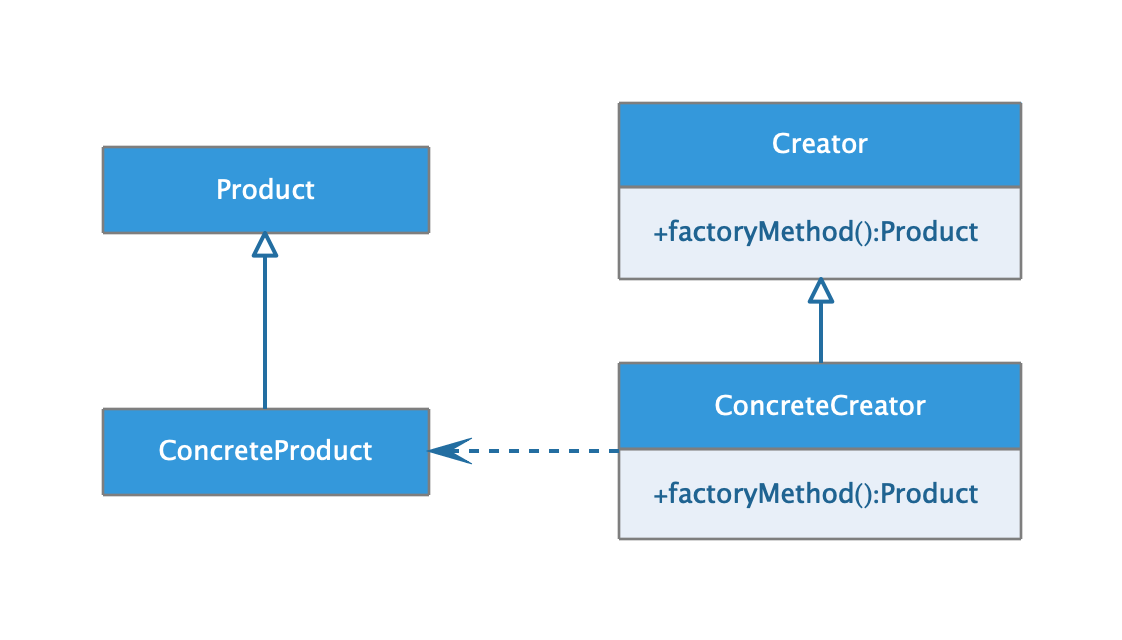
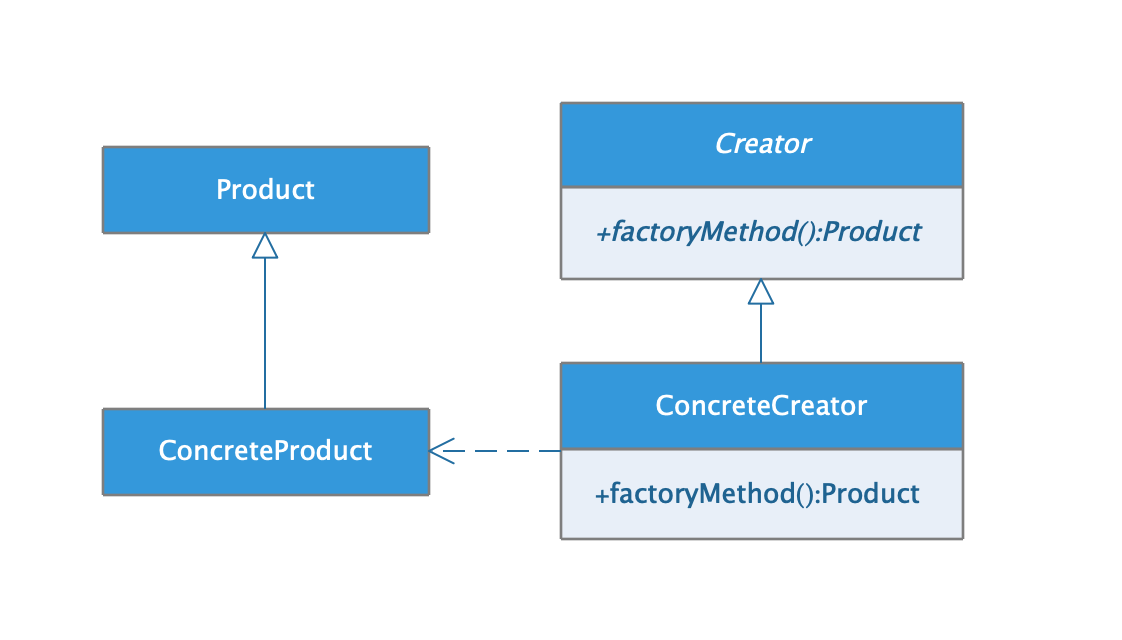
fix pic

diff --git a/develop/design_pattern.md b/develop/design_pattern.md
@@ -24,13 +24,13 @@
   1. [定义](#5.1)
   2. [类图](#5.2)
 
-* ##### [工厂方法模式](#6)
-  1. [定义](#6.1)
+* ##### [工厂方法模式(Factory Method)](#6)
+  1. [意图](#6.1)
   2. [类图](#6.2)
   3. [应用:ThreadFactory](#6.3)
 
-* ##### [抽象工厂模式](#7)
-  1. [定义](#7.1)
+* ##### [抽象工厂模式(Abstract Factory)](#7)
+  1. [意图](#7.1)
   2. [类图](#7.2)
 
 * ##### [命令模式](#8)
@@ -38,12 +38,12 @@
   2. [类图](#8.2)
   3. [应用:ThreadPoolExecutor](#8.3)
 
-* ##### [适配器模式](#9)
-  1. [定义](#9.1)
+* ##### [适配器模式(Adapter)](#9)
+  1. [意图](#9.1)
   2. [类图](#9.2)
 
-* ##### [外观模式](#10)
-  1. [定义](#10.1)
+* ##### [外观模式(Facade)](#10)
+  1. [意图](#10.1)
   2. [类图](#10.2)
 
 * ##### [模板方法模式](#11)
@@ -55,8 +55,8 @@
   1. [定义](#12.1)
   2. [类图](#12.2)
 
-* ##### [组合模式](#13)
-  1. [定义](#13.1)
+* ##### [组合模式(Composite)](#13)
+  1. [意图](#13.1)
   2. [类图](#13.2)
 
 * ##### [状态模式](#14)
@@ -68,6 +68,14 @@
   2. [远程代理](#15.2)
   3. [保护代理](#15.3)
   4. [同步代理](#15.4)
+
+* ##### [建造者模式(Builder)](#16)
+  1. [意图](#16.1)
+  2. [类图](#16.2)
+
+* ##### [桥接模式(Bridge)](#17)
+  1. [意图](#17.1)
+  2. [类图](#17.2)
 
 <h3 id="1">面向对象</h3>
 
@@ -183,15 +191,15 @@ public class ValueAnimator extends Animator implements AnimationHandler.Animatio
 
 <img src="../assets/images/edraw/uml_decorator.png" width="330">
 
-<h3 id="6">工厂方法模式</h3>
+<h3 id="6">工厂方法模式(Factory Method)</h3>
 
-<h4 id="6.1">定义</h4> 
+<h4 id="6.1">意图</h4> 
 
 定义一个创建对象的接口，但由子类决定要实例化的类是哪一个。工厂方法让类把实例化延迟到子类。
 
 <h4 id="6.2">类图</h4> 
 
-<img src="../assets/images/edraw/uml_factoryMethod.png" width="600">
+<img src="../assets/images/edraw/uml_factoryMethod.png?v=1" width="600">
 
 <h4 id="6.3">应用:ThreadFactory</h4> 
 
@@ -217,11 +225,11 @@ public interface ThreadFactory {
     }
 ```
 
-<h3 id="7">抽象工厂模式</h3>
+<h3 id="7">抽象工厂模式(Abstract Factory)</h3>
 
-<h4 id="7.1">定义</h4> 
+<h4 id="7.1">意图</h4> 
 
-提供一个接口，用于创建相关或依赖对象的家族，而不需要明确指定具体类。
+提供一个创建一系列相关或相互依赖的对象的接口，而无需指定它们具体的类。
 
 <h4 id="7.2">类图</h4> 
 
@@ -254,9 +262,9 @@ public class ThreadPoolExecutor extends AbstractExecutorService {
 }
 ```
 
-<h3 id="9">适配器模式</h3>
+<h3 id="9">适配器模式(Adapter)</h3>
 
-<h4 id="9.1">定义</h4> 
+<h4 id="9.1">意图</h4> 
 
 将一个类的接口，转换成客户期望的另一个接口。适配器让原本不兼容的类可以合作无间。
 
@@ -264,13 +272,13 @@ public class ThreadPoolExecutor extends AbstractExecutorService {
 
 以ListView为例：
 
-<img src="../assets/images/edraw/uml_adapter.png" width="680">
+<img src="../assets/images/edraw/uml_adapter.png?v=1" width="600">
 
-<h3 id="10">外观模式</h3>
+<h3 id="10">外观模式(Facade)</h3>
 
-<h4 id="10.1">定义</h4> 
+<h4 id="10.1">意图</h4> 
 
-提供一个统一的接口，用来访问子系统中的一群接口。外观定义了一个高层接口，让子系统更容易使用。
+为子系统提供一个接口，便于它的使用。
 
 <h4 id="10.2">类图</h4> 
 
@@ -313,15 +321,15 @@ public class ThreadPoolExecutor extends AbstractExecutorService {
 
 <img src="../assets/images/edraw/uml_iterator.png" width="630">
 
-<h3 id="13">组合模式</h3>
+<h3 id="13">组合模式(Composite)</h3>
 
-<h4 id="13.1">定义</h4> 
+<h4 id="13.1">意图</h4> 
 
-将对象组合成树形结构来表现\"整体/部分\"层次结构。组合能让客户以一致的方式处理个别对象以及对象组合。
+让客户以一致的方式处理个别对象以及对象组合。
 
 <h4 id="13.2">类图</h4> 
 
-<img src="../assets/images/edraw/uml_composite.png" width="280">
+<img src="../assets/images/edraw/uml_composite.png?v=1" width="550">
 
 <h3 id="14">状态模式</h3>
 
@@ -350,5 +358,25 @@ public class ThreadPoolExecutor extends AbstractExecutorService {
 <h4 id="15.4">同步代理</h4>
 
 <img src="../assets/images/edraw/uml_sync_proxy.png" width="600">
+
+<h3 id="16">建造者模式(Builder)</h3>
+
+<h4 id="16.1">意图</h4> 
+
+将一个复杂对象的构建与它的表示分离，使得同样的构建过程可以创建不同的表示。
+
+<h4 id="16.2">类图</h4> 
+
+<img src="../assets/images/edraw/uml_builder.png" width="750">
+
+<h3 id="17">桥接模式(Bridge)</h3>
+
+<h4 id="17.1">意图</h4> 
+
+将抽象与抽象方法的实现相互分离来实现解耦，以便二者可以相互独立地变化。
+
+<h4 id="17.2">类图</h4> 
+
+<img src="../assets/images/edraw/uml_state.png" width="500">
 
 
